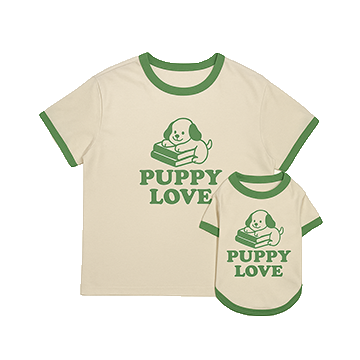
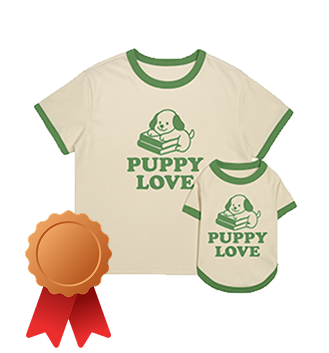
bestproducts update

diff --git a/src/styles/bestproducts.scss b/src/styles/bestproducts.scss
@@ -1,0 +1,169 @@
+#best-products {
+  width: 100%;
+  max-width: 1440px;
+  margin: 10rem auto;
+  display: flex;
+  flex-direction: column;
+  justify-content: center;
+  align-items: center;
+  gap: 17rem;
+  text-align: center;
+  color: var(--color-font);
+  @include tablet {
+    gap: 10rem;
+    padding: 0 30px;
+  }
+  @include mobile {
+    gap: 8rem;
+    padding: 0 15px;
+  }
+  .best-title {
+    h1 {
+      font-family: 'yg-jalnan'; 
+      font-size: 4.5rem;
+      @include mobile {
+        font-size: 3.5rem;
+      }
+    }
+    p {
+      font-family: 'NanumSquareNeoBold';
+      font-size: 2.5rem;
+      @include mobile {
+        font-size: 2rem;
+      }
+    }
+  }
+  .best-item-wrap {
+    display: flex;
+    justify-content: center;
+    gap: 4rem;
+    @include tablet {
+      flex-direction: column;
+      gap: 7rem;
+    }
+    @include mobile {
+      gap: 4rem;
+    }
+    .best-item {
+      display: flex;
+      flex-direction: column;
+      justify-content: flex-end;
+      align-items: center;
+      width: 350px;
+      height: 515px;
+      padding: 4.5rem 0;
+      background-color: #FAFAFA;
+      border-radius: 30px;
+      position: relative;
+      @include tablet {
+        width: 700px;
+        height: 230px;
+        flex-direction: row;
+        justify-content: space-between;
+        padding-left: 30rem;
+        padding-right: 4rem;
+      }
+      @include mobile {
+        width: 100%;
+        height: 170px;
+        padding-left: 20rem;
+        padding-right: 2rem;
+      }
+      &:hover > img {
+        transform: scale(1.05);
+      }
+      img {
+        position: absolute;
+        bottom: 315px;
+        transition: 0.5s;
+        @include tablet {
+          width: 280px;
+          position: absolute;
+          bottom: -20px;
+          left: 0;
+        }
+        @include mobile {
+          width: 180px;
+          bottom: 0;
+        }
+      }
+      .best-item-content {
+        display: flex;
+        flex-direction: column;
+        align-items: center;
+        gap: 1.3rem;
+        @include tablet {
+          align-items: flex-start;
+        }
+        h2 {
+          font-family: 'NanumSquareNeoBold';
+          font-size: 3rem;
+          @include mobile {
+            font-size: 2rem;
+          }
+        }
+        p {
+          &:nth-of-type(1) {
+            font-family: 'NanumSquareNeoLight';
+            font-size: 2rem;
+            span {
+              color: var(--color-main);
+            }
+            @include mobile {
+              font-size: 1.5rem;
+            }
+          }
+          &:nth-of-type(2) {
+            font-family: 'NanumSquareNeo';
+            font-size: 2rem;
+            @include mobile {
+              font-size: 1.5rem;
+            }
+          }
+          &:nth-of-type(3) {
+            font-family: 'NanumSquareNeo';
+            font-size: 1.6rem;
+            line-height: 1.3;
+            text-align: center;
+            @include tablet {
+              text-align: left;
+            }
+            @include mobile {
+              font-size: 1rem;
+            }
+          }
+        }
+      }
+      button {
+        span {
+          font-size: 2rem;
+          @include tablet {
+            display: none;
+          }
+        }
+        width: 226px;
+        height: 65px;
+        display: flex;
+        justify-content: center;
+        align-items: center;
+        gap: 1rem;
+        margin-top: 2.5rem;
+        font-family: 'NanumSquareNeoBold';
+        font-size: 3rem;
+        background-color: var(--color-main);
+        color: #fff;
+        border-radius: 50px;
+        border: none;
+        @include tablet {
+          width: 65px;
+          height: 65px;
+        }
+        @include mobile {
+          width: 50px;
+          height: 50px;
+          font-size: 2rem;
+        }
+      }
+    }
+  }
+}

diff --git a/src/components/BestProducts.js b/src/components/BestProducts.js
@@ -1,0 +1,76 @@
+import gsap from "gsap";
+import { useGSAP } from '@gsap/react';
+import { useRef } from "react";
+import { ScrollTrigger } from "gsap/ScrollTrigger";
+import { FiSearch } from "react-icons/fi";
+
+const BestProducts = () => {
+  gsap.registerPlugin(useGSAP, ScrollTrigger);
+
+  const container = useRef();
+
+  // useGSAP(()=>{
+  //   gsap.utils.toArray('.best-item').forEach((item)=>{
+  //     gsap.from(item, { 
+  //       scrollTrigger: {
+  //         trigger: item,
+  //         start: 'top 90%',
+  //         toggleActions: 'play none none none',
+  //         once: true,
+  //       },
+  //       y: -100, 
+  //       opacity: 0, 
+  //       duration: 0.8, 
+  //       // stagger: 0.2,
+  //     });
+  //   })
+  // }, { scope: container })
+
+
+  return (
+    <section id="best-products" ref={container}>
+      <div className="best-title">
+        <h1>BEST PRUDUCTS</h1>
+        <p>Puppy Party! 에서 가장 인기 있는 상품이에요</p>
+      </div>
+      
+      <div className="best-item-wrap">
+        <div className="best-item">
+        <img src={`${process.env.PUBLIC_URL}/images/bestproducts/party2-2.png`} alt="party2-2" />
+          <div className="best-item-content">
+            <h2>퍼피몽글 케이프</h2>
+            <p><span>★★★★★</span> (9,456)</p>
+            <p>6,500 ₩</p>
+            <p>극세사 소재에 말랑한 리본 포인트. <br/>
+                파티룩 완성 아이템</p>
+          </div>
+          <button><FiSearch /><span>자세히 보기</span></button>
+        </div>
+        <div className="best-item">
+        <img src={`${process.env.PUBLIC_URL}/images/bestproducts/dogCake3-1.png`} alt="dogCake3-1" />
+          <div className="best-item-content">
+            <h2>퍼피러브 핑크샌드</h2>
+            <p><span>★★★★★</span> (6,849)</p>
+            <p>15,000 ₩</p>
+            <p>고구마 쿠키에 딸기 크림을 샌드한 <br/>
+                러블리한 케이크</p>
+          </div>
+            <button><FiSearch /><span>자세히 보기</span></button>
+        </div>
+        <div className="best-item">
+        <img src={`${process.env.PUBLIC_URL}/images/bestproducts/coupleT1-1.png`} alt="coupleT1-1" />
+          <div className="best-item-content">
+            <h2>모찌 패밀리 시밀러룩</h2>
+            <p><span>★★★★★</span> (2,453)</p>
+            <p>33,200 ₩</p>
+            <p>우리 둘이 하나처럼, <br/>
+                모찌처럼 귀엽게!</p>
+          </div>
+            <button><FiSearch /><span>자세히 보기</span></button>
+        </div>
+      </div>
+    </section>
+  );
+};
+
+export default BestProducts;

diff --git a/src/styles/sale.scss b/src/styles/sale.scss
@@ -1,4 +1,5 @@
 #sale {
+  overflow-x: hidden;
   width: 100vw;
   background-color: var(--color-bg);
   display: flex;
@@ -10,8 +11,7 @@
     flex-direction: column;
     justify-content: center;
     align-items: center;
-    // margin: 9rem 0;
-    gap: 2rem;
+    gap: 5rem;
     .sale-txt {
       height: 30%;
       // background-color: red;
@@ -22,21 +22,34 @@
       p {
         font-size: 2rem;
         color: var(--color-sub1);
+        @include mobile {
+          font-size: 1.8rem;
+        }
       }
       h2 {
         font-family: 'NanumSquareNeoExtraBold';
         font-size: 3.5rem;
         margin: 2rem 0;
+        @include mobile {
+          font-size: 3rem;
+        }
       }
       h1 {
         font-size: 3.5rem;
         font-family: 'NanumSquareNeoLight';
+        @include mobile {
+          font-size: 3rem;
+        }
         span {
           width: 210px;
           display: inline-block;
           font-family: 'NanumSquareNeoHeavy';
           font-size: 4.5rem;
           color: var(--color-sub1);
+          @include mobile {
+            width: 200px;
+            font-size: 4rem;
+          }
         }
       }
     }

diff --git a/src/App.js b/src/App.js
@@ -7,6 +7,7 @@ import Cart from "./components/Cart";
 import Footer from "./components/Footer";
 import { useState } from "react";
 import Sale from "./components/Sale";
+import BestProducts from "./components/BestProducts";
 
 const App = () => {
     // 장바구니에 담긴 상품 목록 상태 관리
@@ -71,8 +72,9 @@ const App = () => {
                             <>
                             <Navigation />
                                 <MainBanner />
+                                <BestProducts />
                                 <Sale />
-                                <Categori />
+                                {/* <Categori /> */}
                                 <Footer />
                             </>
                         }

diff --git a/src/components/MainBanner.js b/src/components/MainBanner.js
@@ -7,7 +7,7 @@ import { IoIosArrowForward } from "react-icons/io";
 
 // ▶ 커스텀 화살표
 function NextArrow(props) {
-  const { className, onClick } = props;
+  const { onClick } = props;
   return (
     <div className={"arrow-next"} onClick={onClick}>
       <IoIosArrowForward />
@@ -16,7 +16,7 @@ function NextArrow(props) {
 }
 
 function PrevArrow(props) {
-  const { className, onClick } = props;
+  const { onClick } = props;
   return (
     <div className={"arrow-prev"} onClick={onClick}>
       <IoIosArrowBack />
@@ -31,6 +31,9 @@ const settings = {
   speed: 1000,
   slidesToShow: 1,
   slidesToScroll: 1,
+  autoplay: true,
+  speed: 2000,
+  autoplaySpeed: 5000,
   nextArrow: <NextArrow />,
   prevArrow: <PrevArrow />,
   

diff --git a/public/index.html b/public/index.html
@@ -23,7 +23,7 @@
       work correctly both with client-side routing and a non-root public URL.
       Learn how to configure a non-root public URL by running `npm run build`.
     -->
-    <title>퍼피파티</title>
+    <title>Puppy Party!</title>
   </head>
   <body>
     <noscript>You need to enable JavaScript to run this app.</noscript>

diff --git a/src/styles/global.scss b/src/styles/global.scss
@@ -9,7 +9,6 @@
 
 *{ margin: 0; padding: 0; box-sizing: border-box; letter-spacing: -0.01rem;}
 
-body { overflow-x: hidden;}
 
 a{ text-decoration: none; display: block; color: inherit; }
 

diff --git a/src/styles/mainbanner.scss b/src/styles/mainbanner.scss
@@ -1,6 +1,7 @@
 .slider {
+  overflow-x: hidden;
   width: 100vw;
-  height: 640px;
+  height: 650px;
   display: flex;
   flex-direction: column;
   justify-content: center;

diff --git a/src/App.scss b/src/App.scss
@@ -14,3 +14,4 @@
 @import './styles/sale.scss';
 @import './styles/sale.scss';
 @import './styles/cart.scss';
+@import './styles/bestproducts.scss';
